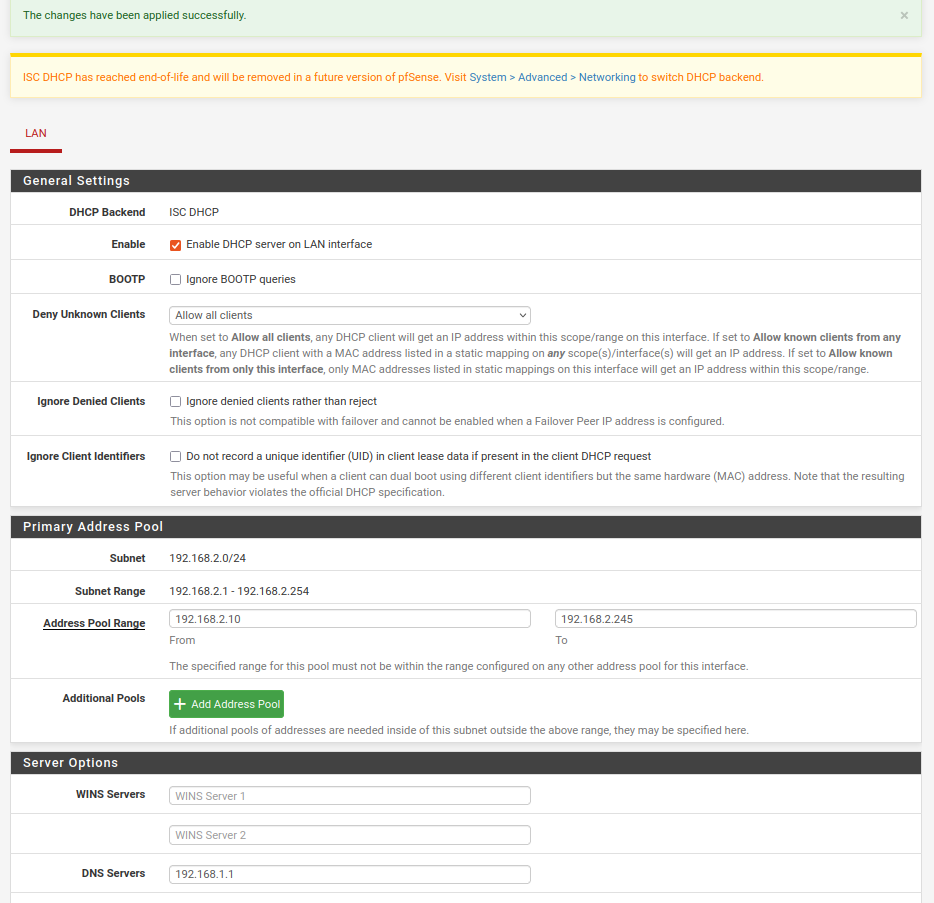
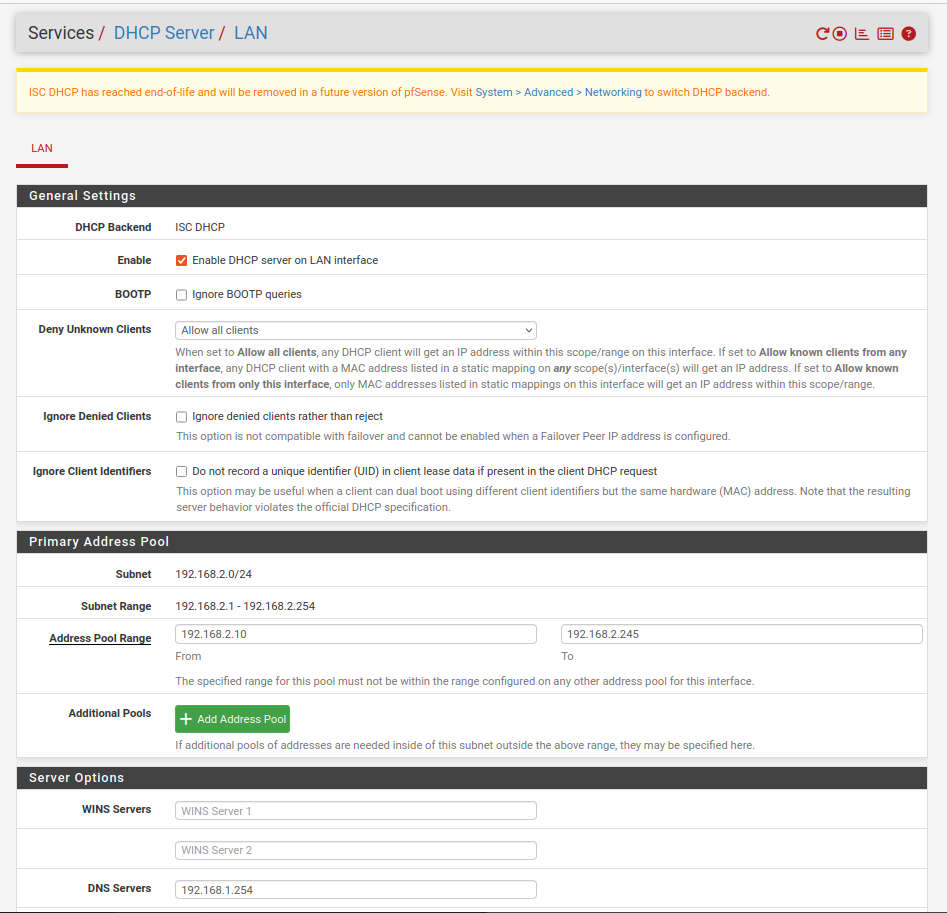
parte FW

diff --git a/README.md b/README.md
@@ -50,26 +50,220 @@ The LAN interface was manually set to `192.168.2.1/24` to avoid a subnet conflic
 
 ### 1.4 Enabling GUI Access
 
-The firewall was temporarily disabled from the console shell (`pfctl -d`) to allow first-time login to the web interface at `https://192.168.1.162` using the default credentials (`admin` / `pfsense`).
+The firewall was temporarily disabled from the console shell to allow first-time login:
 
-A permanent firewall rule was then created to allow GUI access going forward:
+```bash
+pfctl -d
+```
 
-![Firewall Rule](images/firewall_rule_1.png)
+The web interface was then reached at `https://192.168.1.162` using the default credentials (`admin` / `pfsense`). A permanent rule was created to preserve GUI access going forward:
+
+| Field | Value |
+|---|---|
+| Interface | WAN |
+| Action | Pass |
+| Protocol | TCP |
+| Source | Network: 192.168.1.0/24 |
+| Destination | WAN address |
+| Destination port | 443 |
+| Description | Allow GUI access from home network |
 
 
 ### 1.5 DHCP Server (LAN)
 
 Configured under **Services ▸ DHCP Server ▸ LAN**:
 
-![Firewall Rule](images/dhcp_config.png)
+![DHCP configuration](images/dhcp_config.png)
 
+| Field | Value |
+|---|---|
+| Range | 192.168.2.10 – 192.168.2.199 |
+| DNS server | 192.168.1.254 (home router) |
+
+---
+
+## Part 2 — Attack Simulation and Detection
+
+### 2.1 Verifying Host Connectivity
+
+**Ubuntu (Victim):**
+
+```bash
+sudo apt update
+sudo apt install net-tools
+ifconfig
+ping 8.8.8.8
+```
+
+Confirms Ubuntu received an address in the `192.168.2.0/24` range via DHCP and has outbound internet access through pfSense.
+
+![Ubunto Commands](images/ubunto_command_outputs.png)
+
+
+**Kali (Attacker):**
+
+```bash
+ifconfig
+ping 192.168.1.162
+```
+![Failed Pings](images/kali_command_outputs.png)
+
+
+Pinging the pfSense WAN address initially failed. Two separate issues on pfSense were responsible:
+
+1. **"Block private networks" on WAN.** By default, pfSense drops inbound traffic on the WAN interface that originates from RFC1918 private addresses, since WAN traffic is normally expected to come from the public internet. Since this entire lab runs on private ranges, this default rule silently dropped all of Kali's traffic. Fix: **Interfaces ▸ WAN** → uncheck *"Block private networks and loopback addresses"* under Reserved Networks.
+2. **No explicit rule allowing Kali's traffic.** A rule was added on **Firewall ▸ Rules ▸ WAN** to allow ICMP from Kali's IP toward pfSense/Ubuntu.
+
+![Successfull Pings](images/rule_to_pfsense.png)
+
+
+Once both were addressed, the ping succeeded:
+
+```bash
+ping 192.168.1.162
+```
+![Successfull Pings](images/ping_kali_to_pfsense.png)
+
+
+### 2.2 Allowing Kali → Ubuntu Traffic
+
+A firewall rule was added on **Firewall ▸ Rules ▸ WAN** to allow traffic from Kali toward the Ubuntu victim:
+
+![Firewall rule](images/rule_kali_to_ubunto.png)
+
+| Field | Value |
+|---|---|
+| Action | Pass |
+| Protocol | Any |
+| Source | 192.168.1.125 (Kali) |
+| Destination | 192.168.2.10 (Ubuntu) |
+| Description | Allow Kali access to Ubuntu |
+
+> **Note on protocol:** an initial rule restricted to ICMP allowed `ping` to succeed but silently blocked the later `hping3` TCP traffic. The rule protocol was widened to `Any` to allow the attack traffic through for this demonstration — a real-world equivalent of an attacker who has already found an open path to the target.
+
+A static route was added on Kali so that return/forward traffic for the internal `192.168.2.0/24` subnet is correctly routed via the pfSense WAN address, since Kali has no direct knowledge of the internal LAN:
+
+```bash
+sudo ip route add 192.168.2.0/24 via 192.168.1.162
+```
+![Static Route](images/static_route.png)
+
+
+Successfull pings now:
+![Pings](images/ping_to_ubuntu_vm.png)
+
+
+### 2.3 Installing Wireshark (Ubuntu)
+
+```bash
+sudo apt install wireshark
+sudo wireshark
+```
+Capture was started on the primary interface (`enp0s3`) to observe incoming traffic during the attack.
+
+
+### 2.4 Simulating the DoS Attack
+
+From Kali, a SYN flood was launched against the Ubuntu victim on port 80:
+
+```bash
+sudo hping3 -S -p 80 --flood 192.168.2.10
+```
+
+```
+--- 192.168.2.10 hping statistic ---
+285256 packets transmitted, 0 packets received, 100% packet loss
+```
+![statistics](images/dos_command.png)
+
+**On the reported packet loss:** in `--flood` mode, `hping3` disables response listening entirely in order to maximize send throughput — it never checks for replies, so `packets received` is always 0 and the reported loss is not a measure of whether the attack succeeded. Delivery of the attack traffic was instead confirmed independently through:
+
+- **pfSense rule counters** (Firewall ▸ Rules ▸ WAN), showing the Kali → Ubuntu rule matching tens of thousands of packets during the attack window
+- **Wireshark capture on Ubuntu**, showing a continuous stream of incoming SYN packets from Kali's IP
+
+This is the expected behavior of a SYN flood: the goal isn't to receive replies, but to exhaust the victim's connection-handling resources with a high volume of half-open TCP connection requests.
+
+
+### 2.5 Observing the Attack in Wireshark
+
+![Wireshark capture](images/wireshark_packet.png)
+
+The capture shows a sustained flood of `SYN` packets from Kali's IP (`192.168.1.125`) to Ubuntu's IP (`192.168.2.10`) on port 80, with no corresponding `SYN-ACK`/`ACK` handshake completion — consistent with a SYN flood pattern.
+
+---
+
+
+## Part 3 — Mitigation
+
+### 3.1 Blocking Kali → Ubuntu TCP Traffic
+
+To stop the attack, a **block** rule was added on **Firewall ▸ Rules ▸ WAN**:
+
+| Field | Value |
+|---|---|
+| Action | Block |
+| Protocol | TCP |
+| Source | Kali IP |
+| Destination | Ubuntu IP |
+
+![Firewall block rule](images/block_tcp_rule.png)
+
+pfSense evaluates rules top-to-bottom on the interface and applies the **first match**, so this block rule was placed above the earlier "Allow Kali access to Ubuntu" rule — otherwise the permissive rule would keep matching first and the block would never be reached.
+
+
+### 3.2 Re-running the DoS Attack
+
+The same attack was launched again from Kali to test the new rule:
+
+```bash
+sudo hping3 -S -p 80 --flood 192.168.2.10
+```
+
+This time, **396,968 packets** were transmitted:
+
+![Attack repeated with block rule active](images/print_attack_again.png)
+
+### 3.3 Verifying the Block in pfSense
+
+Checking **Firewall ▸ Rules ▸ WAN** confirms the new rule caught the traffic: **396,987 packets blocked**, matching the volume sent by Kali. This confirms the rule is working as intended — the flood is being dropped at the firewall instead of reaching the internal network.
+
+![Blocked packet count in pfSense](images/pfsense_gui_packets_blocked.png)
+
+---
+
+## Troubleshooting
+
+A few issues came up during setup that are worth documenting, since they're common pitfalls in this kind of lab.
+
+**DNS resolution failing despite working internet connectivity**
+
+While verifying the Ubuntu VM, `sudo apt install net-tools` failed to run. Diagnosis steps:
+
+1. Checked connectivity to the default gateway — worked
+2. Checked `ping 8.8.8.8` — worked (confirms raw IP routing is fine)
+3. Checked `ping google.com` — failed (points specifically to DNS resolution, not routing)
+
+Since IP-based connectivity worked but name resolution didn't, the issue was narrowed down to an incorrect DNS server rather than a network/firewall problem. Running `ip route | grep default` on the host machine's own connection confirmed the actual home router address is `192.168.1.254` — not `192.168.1.1`, which had been assumed and configured as the DNS server in pfSense.
+
+**Fix:** in the pfSense GUI, under **Services ▸ DHCP Server ▸ LAN**, the DNS Servers field was updated to `192.168.1.254`. Ubuntu picked up the corrected DNS server on its next DHCP renewal, and both `apt` and `ping google.com` started working.
+
+> **Takeaway:** when IP-based tests succeed but name-based tests fail, the issue is almost always DNS — check the resolver configuration before suspecting routing or firewall rules.
 
 ## Next Steps
 
-- [ ] Finish Ubuntu installation and confirm assigned IP
-- [ ] Create Kali Linux VM (Bridged)
-- [ ] Add WAN firewall rule allowing Kali → Ubuntu traffic
-- [ ] Run DoS attack using `hping3`
-- [ ] Capture and analyze traffic in Wireshark
-- [ ] Mitigate the attack with pfSense firewall rules
-- [ ] Review resulting firewall logs
+- [ ] Install and configure **Suricata** on pfSense as an IDS/IPS to detect and automatically respond to flood-style traffic patterns, rather than relying solely on manually created static block rules
+
+---
+
+## Key Takeaways
+
+- pfSense's default WAN protections (block private networks/bogons) can silently interfere with fully-private lab topologies and must be adjusted deliberately, not disabled blindly in production.
+- Firewall rules are protocol-specific — an ICMP allow rule does not imply TCP is allowed; each protocol needed for the test must be explicitly permitted.
+- `hping3 --flood` statistics report transmission, not delivery — attack success must be verified independently (firewall counters, packet capture) rather than trusted from the tool's own summary.
+
+## Repository
+
+**Name:** `PfSense-DoS-Lab`
+**Description:** Virtualized lab simulating a DoS attack from an external host through a pfSense firewall, with traffic capture in Wireshark and mitigation via custom firewall rules.
+
+
